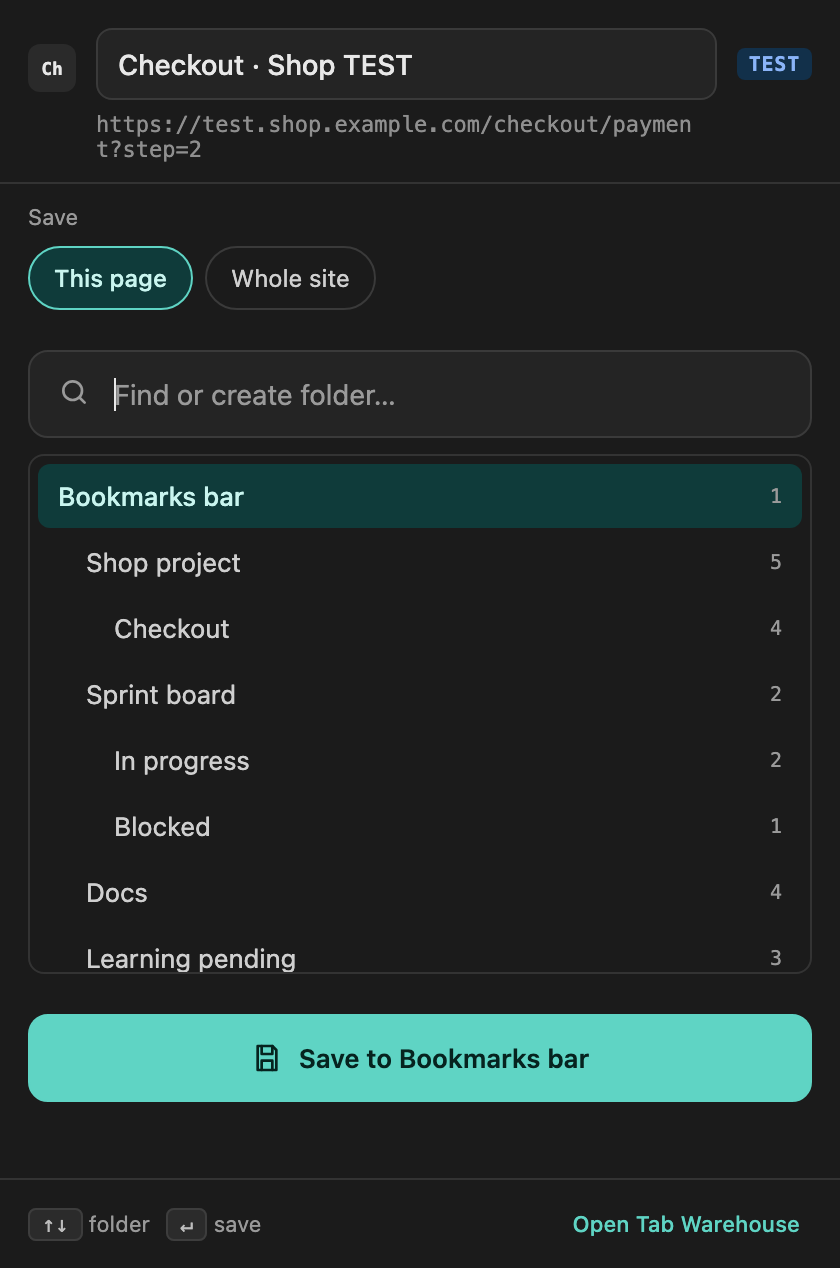
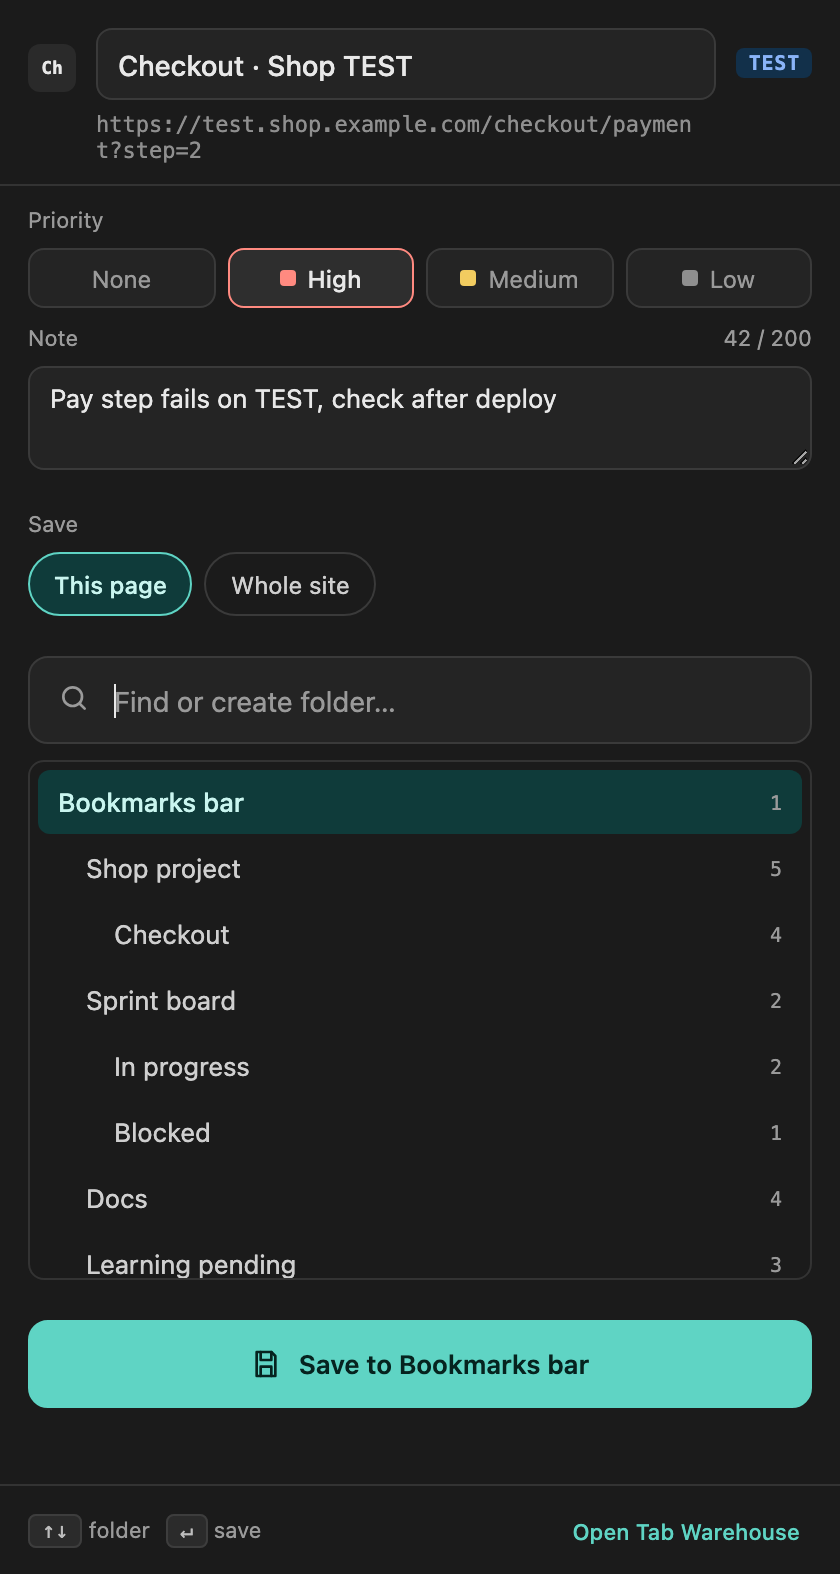
docs(site): add notes and priority
- New "Notes and priority" feature block and README subsection
  with a notes.png screenshot.
- Demo: sample notes and priorities in the Docs folder.
- popup.png shows the priority picker and the note box.
- The storage permission row mentions link notes.

diff --git a/site/index.html b/site/index.html
@@ -230,6 +230,30 @@
 
         <div class="wrap feature">
           <div class="txt">
+            <h3>Notes and priority</h3>
+            <p>Give a link a short note and a priority when you save it, or later from its menu. Important links stay at the top of the folder.</p>
+            <ul>
+              <li>Priority High, Medium or Low, with a colored stripe</li>
+              <li>Priority links come first, under High, Medium and Low headers</li>
+              <li>Filter buttons: High, Medium, Low or Has note</li>
+              <li>Search also finds the text in your notes</li>
+            </ul>
+            <a class="more" href="#demo" data-demo="newtab">Try it in the demo →</a>
+          </div>
+          <figure class="frame">
+            <img
+              src="screenshots/notes.png"
+              alt="Docs folder with High, Medium and Other groups; High and Medium rows have a colored stripe and a note under the URL"
+              loading="lazy"
+              width="1800"
+              height="1007"
+              data-zoom
+            />
+          </figure>
+        </div>
+
+        <div class="wrap feature flip">
+          <div class="txt">
             <h3>Board</h3>
             <p>
               See every folder at once, as a column of cards. Columns sit in lanes by category, or in one long row. Sections show as small headers inside each
@@ -255,7 +279,7 @@
           </figure>
         </div>
 
-        <div class="wrap feature flip">
+        <div class="wrap feature">
           <div class="txt">
             <h3>Env matrix</h3>
             <p>
@@ -280,7 +304,7 @@
           </figure>
         </div>
 
-        <div class="wrap feature">
+        <div class="wrap feature flip">
           <div class="txt">
             <h3>Categories and drag and drop</h3>
             <p>
@@ -306,7 +330,7 @@
           </figure>
         </div>
 
-        <div class="wrap feature flip">
+        <div class="wrap feature">
           <div class="txt">
             <h3>Search everything</h3>
             <p>
@@ -336,6 +360,7 @@
               <li>Save the page, or the whole site (<code>origin/</code>)</li>
               <li>Shows the env badge before you save</li>
               <li>Tells you if the URL is already saved</li>
+              <li>Add a priority and a short note</li>
             </ul>
             <ol class="flow" aria-label="How saving works">
               <li><span class="kbd-big">⌘⇧B</span><span>Open the popup on any page</span></li>
@@ -355,10 +380,10 @@
           <figure class="frame narrow">
             <img
               src="screenshots/popup.png"
-              alt="The save popup with the page title, a TEST badge, a folder list and a Save button"
+              alt="The save popup with the page title, a TEST badge, High priority picked, a short note, a folder list and a Save button"
               loading="lazy"
               width="840"
-              height="1268"
+              height="1574"
               data-zoom
             />
           </figure>
@@ -557,7 +582,7 @@
                 </tr>
                 <tr>
                   <td><code>storage</code></td>
-                  <td>Save sidebar order, env rules and the Home look</td>
+                  <td>Save sidebar order, env rules, link notes and the Home look</td>
                 </tr>
                 <tr>
                   <td><code>favicon</code></td>

diff --git a/site/demo/demo-chrome.js b/site/demo/demo-chrome.js
@@ -104,9 +104,16 @@
     sideLook: { mode: 'image', color: '#141414', dark: 85, blur: 14 },
   });
 
+  const sampleLinkMeta = (ids) => ({
+    [ids['chrome.bookmarks API']]: { note: 'Source of truth for every change', pri: 'high' },
+    [ids['Manifest V3 overview']]: { pri: 'high' },
+    [ids['HTML drag and drop API']]: { note: 'Same-parent move index quirk', pri: 'med' },
+  });
+
   const fresh = () => {
     let next = 0;
     const ids = {};
+    const linkIds = {};
     const day = 86400000;
     const stamp = (node, parentId, index) => {
       node.id = String(next++);
@@ -114,13 +121,19 @@
       node.dateAdded = Date.now() - (200 - next) * day;
       if (parentId !== undefined) node.parentId = parentId;
       if (node.children) ids[node.title] ||= node.id;
+      if (node.url) linkIds[node.title] ||= node.id;
       (node.children || []).forEach((c, i) => stamp(c, node.id, i));
     };
     const tree = sampleTree();
     stamp(tree);
     return {
       tree,
-      store: { settings: sampleSettings(ids), homeIcons: {}, homeBg: new URL('bg.jpg', document.currentScript?.src || location.href).href },
+      store: {
+        settings: sampleSettings(ids),
+        linkMeta: sampleLinkMeta(linkIds),
+        homeIcons: {},
+        homeBg: new URL('bg.jpg', document.currentScript?.src || location.href).href,
+      },
       nextId: 1000,
       activeTab: { id: 1, title: 'Checkout · Shop TEST', url: 'https://test.shop.example.com/checkout/payment?step=2' },
       listeners: [],

diff --git a/README.md b/README.md
@@ -99,6 +99,16 @@ Developers keep the same page open in many versions: live, test, staging and `lo
 
 ![A folder with a Checkout section and PROD, TEST, STAGE and LOCAL badges](site/screenshots/sections.png)
 
+### Notes and priority
+
+- Give a link a short note (up to 200 characters) and a priority: High, Medium or Low. Set them in the popup when you save, in the edit form, or from the row menu.
+- Priority links come first, under **High**, **Medium** and **Low** headers, with a colored stripe. Your sort still applies inside each group. In folders with sections, priority links go first inside each section.
+- Filter buttons: High, Medium, Low or Has note. The folder filter and search also find the text in your notes.
+- Drop a link on a priority header to give it that priority.
+- Notes stay on this computer. Backup › Export JSON includes them.
+
+![Docs folder with High, Medium and Other groups, a colored stripe and a note under the URL](site/screenshots/notes.png)
+
 ### Environments
 
 - **Labels**: "if the address contains `-test.` show TEST". The first matching rule wins. Without rules, words like PROD or TEST in the title still work.
@@ -116,8 +126,9 @@ Developers keep the same page open in many versions: live, test, staging and `lo
 - Save the current tab into any folder, or create a new folder by typing its name.
 - Save the full page or the whole site (`origin/`).
 - Shows the env badge, remembers the last folder, and tells you if the URL is already saved.
+- Add a priority and a short note before you save.
 
-<img src="site/screenshots/popup.png" alt="The save popup with a TEST badge and the folder list" width="360">
+<img src="site/screenshots/popup.png" alt="The save popup with a TEST badge, a priority picker, a note box and the folder list" width="360">
 
 ### Settings and backup
 
@@ -189,15 +200,15 @@ Coming soon.
 Tab Warehouse has no server, no account, no analytics and no tracking. It does not send your bookmarks anywhere.
 
 - Links, titles and folders stay in **Chrome's bookmarks**.
-- Preferences (sidebar order, categories, env rules, Home look) stay in **`chrome.storage.local`** on your machine.
+- Preferences (sidebar order, categories, env rules, Home look) and link notes stay in **`chrome.storage.local`** on your machine. Chrome sync does not copy them.
 - The only images loaded from the network are the official Google app icons (from `ssl.gstatic.com`), any icon URL you add yourself, and the icon of a Home link that Chrome has no icon for. For that last case the extension asks Google's favicon service (`www.google.com/s2/favicons`) and sends it only the host name of that link. Local addresses (localhost, IP addresses) are never sent.
 
-| Permission  | Why it is needed                                                        |
-| ----------- | ----------------------------------------------------------------------- |
-| `bookmarks` | Read and edit your bookmarks — the core of the extension                |
-| `storage`   | Save sidebar order, per-folder preferences, env rules and the Home look |
-| `favicon`   | Show site icons from Chrome's own favicon cache                         |
-| `activeTab` | Read the current tab's title and URL, only when you open the popup      |
+| Permission  | Why it is needed                                                                    |
+| ----------- | ----------------------------------------------------------------------------------- |
+| `bookmarks` | Read and edit your bookmarks — the core of the extension                            |
+| `storage`   | Save sidebar order, per-folder preferences, env rules, link notes and the Home look |
+| `favicon`   | Show site icons from Chrome's own favicon cache                                     |
+| `activeTab` | Read the current tab's title and URL, only when you open the popup                  |
 
 ## How it works
 
